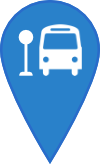
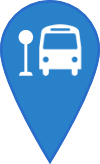
Actualizado index y foto

diff --git a/index.html b/index.html
@@ -668,6 +668,49 @@ function haversineMetres(lat1, lon1, lat2, lon2) {
   return R * 2 * Math.asin(Math.sqrt(a));
 }
 
+// ── Compute delay in seconds for a bus given its GPS position ──
+// prevStop/nextStop are stop_times rows; prevInfo/nextInfo are stopsData entries with coords.
+// busLat/busLon is the GPS position from the RT feed.
+// Returns delay in seconds (positive = late, negative = early).
+function computeBusDelay(prevStop, nextStop, prevInfo, nextInfo, busLat, busLon, recordedAtISO) {
+  const rt = new Date(recordedAtISO);
+  const actual = rt.getHours()*3600 + rt.getMinutes()*60 + rt.getSeconds();
+
+  const schedDep = timeToSeconds(prevStop ? (prevStop.departure_time || prevStop.arrival_time) : null);
+  const schedArr = timeToSeconds(nextStop.arrival_time || nextStop.departure_time);
+  if (schedArr <= 0) return null;
+
+  // If we have GPS + both stop coords, interpolate fraction of segment completed
+  if (prevStop && prevInfo && nextInfo && busLat !== null && busLon !== null) {
+    const segDist   = haversineMetres(prevInfo.stop_lat, prevInfo.stop_lon, nextInfo.stop_lat, nextInfo.stop_lon);
+    const distToNext = haversineMetres(busLat, busLon, nextInfo.stop_lat, nextInfo.stop_lon);
+    const segDur    = schedArr - (schedDep > 0 ? schedDep : schedArr); // seconds for this segment
+
+    if (segDist > 0 && segDur > 0) {
+      // Fraction of segment still remaining (0 = at prevStop, 1 = at nextStop)
+      const fracRemaining = Math.min(1, Math.max(0, distToNext / segDist));
+      // Estimated time the bus left prevStop = now - time_already_spent_in_segment
+      // time_spent = (1 - fracRemaining) * segDur
+      const timeSpent = (1 - fracRemaining) * segDur;
+      const estimatedActualDep = actual - timeSpent;
+      if (schedDep > 0) return estimatedActualDep - schedDep;
+      // Fallback: compare expected arrival at nextStop vs schedule
+      return (actual + fracRemaining * segDur) - schedArr;
+    }
+  }
+
+  // Fallback (no GPS or coords missing): compare recordedAt vs nextStop.arrival_time
+  // Check if bus is close to next stop using GPS vs stop coord if available
+  if (busLat !== null && busLon !== null && nextInfo) {
+    const d = haversineMetres(busLat, busLon, nextInfo.stop_lat, nextInfo.stop_lon);
+    if (d < 1000) {
+      const schedDep2 = timeToSeconds(nextStop.departure_time || nextStop.arrival_time);
+      return schedDep2 > 0 ? actual - schedDep2 : null;
+    }
+  }
+  return actual - schedArr;
+}
+
 // ═══════════════════════════════════════════════════════
 // DATA STORES
 // ═══════════════════════════════════════════════════════
@@ -1006,7 +1049,13 @@ async function buscarBusesPorParada() {
       const jref = act.querySelector('VehicleJourneyRef')?.textContent.trim();
       const spRef = act.querySelector('StopPointRef')?.textContent.trim();
       const recAt = act.querySelector('RecordedAtTime')?.textContent.trim();
-      if (jref && spRef && recAt) rtMap.set(jref, { stopPointRef: spRef, recordedAtTimeISO: recAt });
+      const busLat = parseFloat(act.querySelector('Latitude')?.textContent);
+      const busLon = parseFloat(act.querySelector('Longitude')?.textContent);
+      if (jref && spRef && recAt) rtMap.set(jref, {
+        stopPointRef: spRef, recordedAtTimeISO: recAt,
+        lat: isNaN(busLat) ? null : busLat,
+        lon: isNaN(busLon) ? null : busLon
+      });
     }
   } catch(e) { console.warn('RT fetch failed', e); }
 
@@ -1038,30 +1087,14 @@ async function buscarBusesPorParada() {
         const live = rtMap.get(st.trip_id);
         const nextStop = allStops.find(s => s.stop_id === live.stopPointRef);
         if (nextStop && live.recordedAtTimeISO) {
-          // Stable delay formula: delay = recordedAt - nextStop.arrival_time
-          // This doesn't drift between refreshes because recordedAt tracks bus position.
-          // Exception: if nextStop is very close (<500m), bus may be departing it already,
-          // so use nextStop.departure_time instead (the original behaviour).
-          const rt = new Date(live.recordedAtTimeISO);
-          const actual = rt.getHours()*3600 + rt.getMinutes()*60 + rt.getSeconds();
-          const nextStopInfo = stopsData.get(nextStop.stop_id);
-          // Also get bus GPS position from the live feed if available (not stored in rtMap yet)
-          // Fall back to checking distance using prevStop position as proxy
-          const prevStop = allStops.filter(s => s.stop_sequence < nextStop.stop_sequence)
+          const nextSeq = nextStop.stop_sequence;
+          const prevStop = allStops.filter(s => s.stop_sequence < nextSeq)
                                    .sort((a,b) => b.stop_sequence - a.stop_sequence)[0];
-          const prevStopInfo = prevStop ? stopsData.get(prevStop.stop_id) : null;
-          // Compute distance between prev and next stops as proxy for segment length
-          let useNextDep = false;
-          if (nextStopInfo && prevStopInfo) {
-            const segDist = haversineMetres(prevStopInfo.stop_lat, prevStopInfo.stop_lon,
-                                            nextStopInfo.stop_lat, nextStopInfo.stop_lon);
-            if (segDist < 500) useNextDep = true; // short segment → bus is basically at next stop
-          }
-          const schedRef = useNextDep
-            ? timeToSeconds(nextStop.departure_time || nextStop.arrival_time)
-            : timeToSeconds(nextStop.arrival_time || nextStop.departure_time);
-          if (schedRef > 0 && actual > 0) {
-            const delay = actual - schedRef;
+          const prevInfo = prevStop ? stopsData.get(prevStop.stop_id) : null;
+          const nextInfo = stopsData.get(nextStop.stop_id);
+          const delay = computeBusDelay(prevStop, nextStop, prevInfo, nextInfo,
+                                        live.lat, live.lon, live.recordedAtTimeISO);
+          if (delay !== null) {
             estSec = timeToSeconds(st.departure_time) + delay;
             const dm = Math.round(delay/60);
             if (dm > 1) delayPill = `<span class="delay-pill delay">+${dm}m</span>`;
@@ -1183,32 +1216,19 @@ async function localizarBusEnTiempoReal(targetTripId, targetVehicleRef) {
           delayEl.textContent = 'Esperando salida de cabecera';
           delayEl.style.color = '#F5A623';
         } else {
-          // spRef = NEXT stop. Stable delay: recordedAt vs nextStop.arrival_time.
-          // If segment to next stop is short (<500m), use nextStop.departure_time instead.
           const nextST = allStops.find(s => s.stop_id === spRef);
           if (nextST) {
             const prevST = allStops.filter(s => s.stop_sequence < nextST.stop_sequence)
                                    .sort((a,b) => b.stop_sequence - a.stop_sequence)[0];
-            const nextInfo = stopsData.get(nextST.stop_id);
             const prevInfo = prevST ? stopsData.get(prevST.stop_id) : null;
-            let useNextDep = false;
-            if (nextInfo && prevInfo) {
-              const segDist = haversineMetres(prevInfo.stop_lat, prevInfo.stop_lon,
-                                              nextInfo.stop_lat, nextInfo.stop_lon);
-              if (segDist < 500) useNextDep = true;
-            }
-            const sched = useNextDep
-              ? timeToSeconds(nextST.departure_time || nextST.arrival_time)
-              : timeToSeconds(nextST.arrival_time || nextST.departure_time);
-            const rt = new Date(recAt);
-            const actual = rt.getHours()*3600+rt.getMinutes()*60+rt.getSeconds();
-            if (sched > 0 && actual > 0) {
-              currentBusDelayInSeconds = actual - sched;
-              const dm = Math.round(currentBusDelayInSeconds/60);
-              if (currentBusDelayInSeconds > 60) { delayEl.textContent = `Retraso estimado: ${dm} min`; delayEl.style.color='#D0021B'; }
-              else if (currentBusDelayInSeconds < -60) { delayEl.textContent = `Adelanto: ${Math.abs(dm)} min`; delayEl.style.color='var(--green)'; }
-              else { delayEl.textContent = 'En hora'; delayEl.style.color='var(--green)'; }
-            }
+            const nextInfo = stopsData.get(nextST.stop_id);
+            const busLat = isNaN(lat) ? null : lat;
+            const busLon = isNaN(lon) ? null : lon;
+            currentBusDelayInSeconds = computeBusDelay(prevST, nextST, prevInfo, nextInfo, busLat, busLon, recAt) ?? 0;
+            const dm = Math.round(currentBusDelayInSeconds/60);
+            if (currentBusDelayInSeconds > 60) { delayEl.textContent = `Retraso estimado: ${dm} min`; delayEl.style.color='#D0021B'; }
+            else if (currentBusDelayInSeconds < -60) { delayEl.textContent = `Adelanto: ${Math.abs(dm)} min`; delayEl.style.color='var(--green)'; }
+            else { delayEl.textContent = 'En hora'; delayEl.style.color='var(--green)'; }
           }
         }
       }